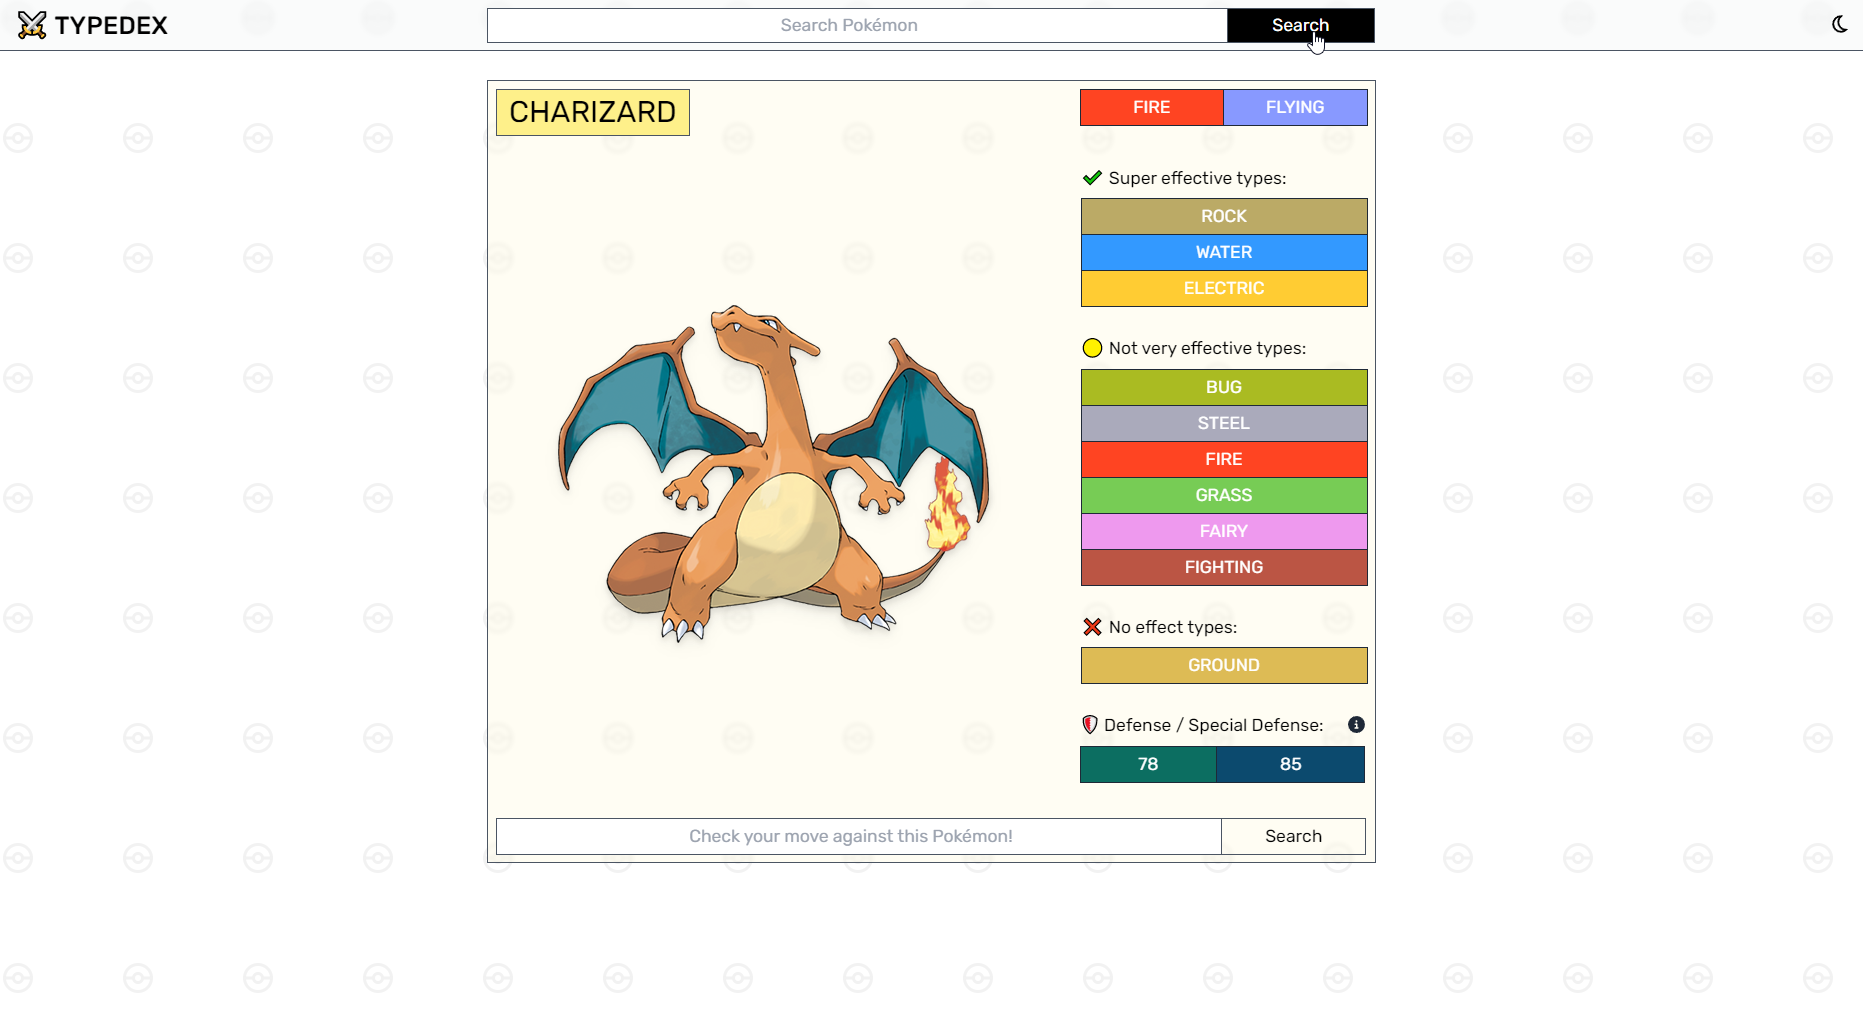
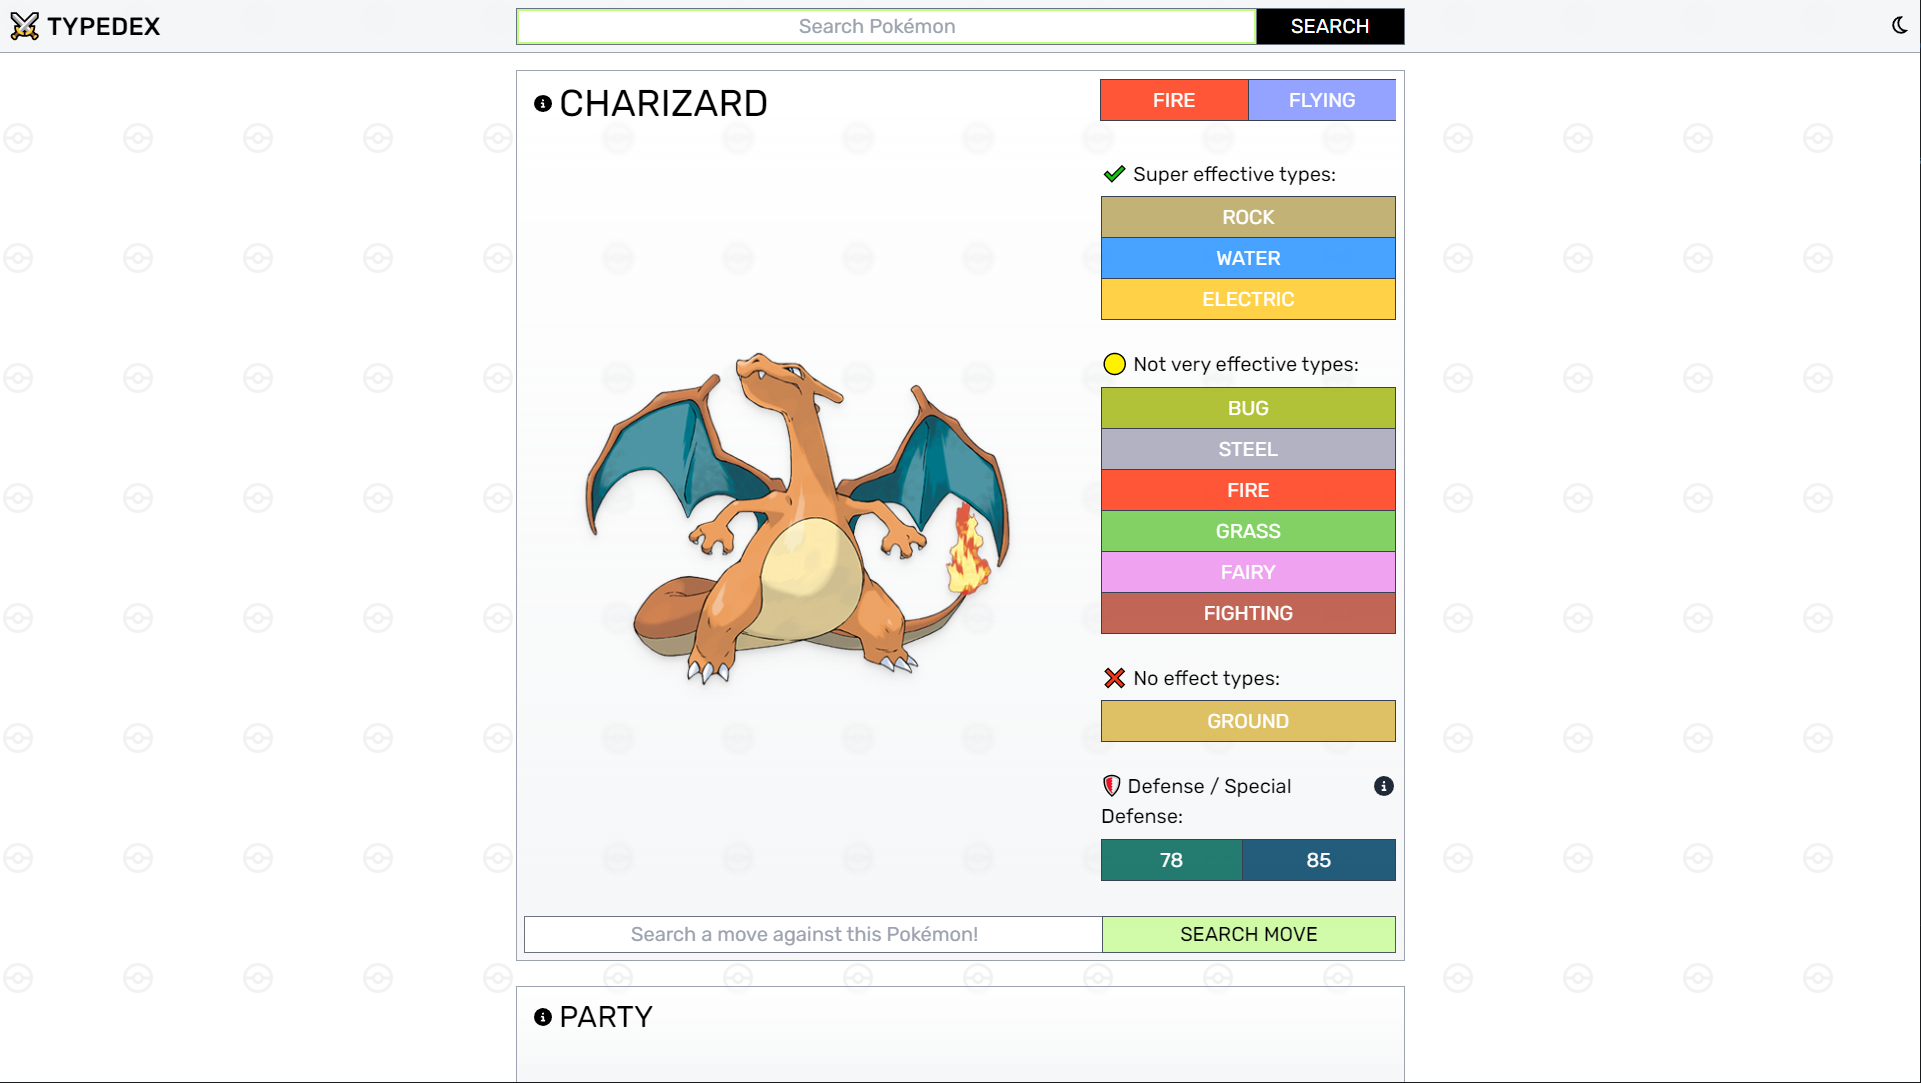
updated readme

diff --git a/README.md b/README.md
@@ -38,9 +38,10 @@
 
 ## About The Project
 
-![alt tag](./src/Assets/typedex_recording.gif)
+![alt tag](./src/Assets/typedex_recording_1.gif)
+![alt tag](./src/Assets/typedex_recording_2.gif)
 
-TypeDex is an app inspired by the original PokéDex but with additional features related to Pokémon battling. No longer will you need to parse through lines of text on an online wiki or scan an 18x18 type chart to find out if a move will be super effective. Features include:
+TypeDex is an app inspired by the original PokéDex but with additional features related to Pokémon battling. No longer will you need to parse through an online wiki or cross reference type charts to find out if a move will be effective against a Pokémon. Features include:
 
 - Super effective, not very effective, no effect types
 - Defense and Special Defense stats displayed for damage typing
@@ -49,6 +50,11 @@ TypeDex is an app inspired by the original PokéDex but with additional features
   - Damage type (physical vs special)
 - Integration with Bulbapedia for full information on selected Pokémon
 - Dark mode
+- Party members
+  - Preserved between browser sessions with local storage
+  - Dynamic matchup favorability against selected Pokémon
+- Mobile version
+- Alerts for misspelled or non-existant Pokémon
 
 <p align="right">(<a href="#readme-top">back to top</a>)</p>
 
@@ -59,7 +65,7 @@ TypeDex is an app inspired by the original PokéDex but with additional features
 - CSS, Tailwind
 - JavaScript
 
-Built using create-react-app, TypeDex takes full advantage of functional components to dynamically adjust the UI for each search. The search input is forwarded to an API that serves all type weaknesses for that Pokémon. The same API provides information related to any move searched as well. The Defense / Special Defense sizes for each Pokémon are proprotional to their base stat values. This allows the user to quickly ascertain which stat is more difficult to target by it's relative size. Dark mode toggling is saved via localstorage.
+Built using React, TypeDex takes full advantage of functional components to dynamically adjust the UI for each search. TypeDex uses an API that serves all known type weaknesses for Pokémon. The same API provides information related to any move as well. The Defense / Special Defense UI for each Pokémon are proprotional to their base stat values. This allows the user to quickly see the strengths and weaknesses of the Pokémon relative to each other. Dark mode preferences and party members are saved via local storage.
 
 <p align="right">(<a href="#readme-top">back to top</a>)</p>
 
@@ -76,13 +82,31 @@ When a Pokémon is displayed, the option to search a move is provided below. If 
 
 <img src="src/Assets/screenshot2.png">
 <br>
+<img src="src/Assets/screenshot2b.png">
+<br>
+
+Pokémon can be entered into the party UI, which will be preserved between broswer sessions via local storage. The UI will dynamically update the matchup favorability, indicated via colored tiers, against searched Pokémon. This serves to quickly provide high-level typing information when choosing which Pokémon to send out.
+
+<img src="src/Assets/screenshot4.png">
+<br>
+<img src="src/Assets/screenshot5.png">
+<br>
+<img src="src/Assets/screenshot6.png">
+<br>
 
 Dark mode can be toggled via the moon button on the header. This mode is saved in your browser via localstorage.
 
 <img src="src/Assets/screenshot3.png">
 <br>
 
-<img src="src/Assets/screenshot4.png">
+Mobile layout is also supported via responsive design.
+
+<img src="src/Assets/screenshot7.png">
+<br>
+<img src="src/Assets/screenshot8.png">
+<br>
+<img src="src/Assets/screenshot9.png">
+<br>
 
 <p align="right">(<a href="#readme-top">back to top</a>)</p>
 
